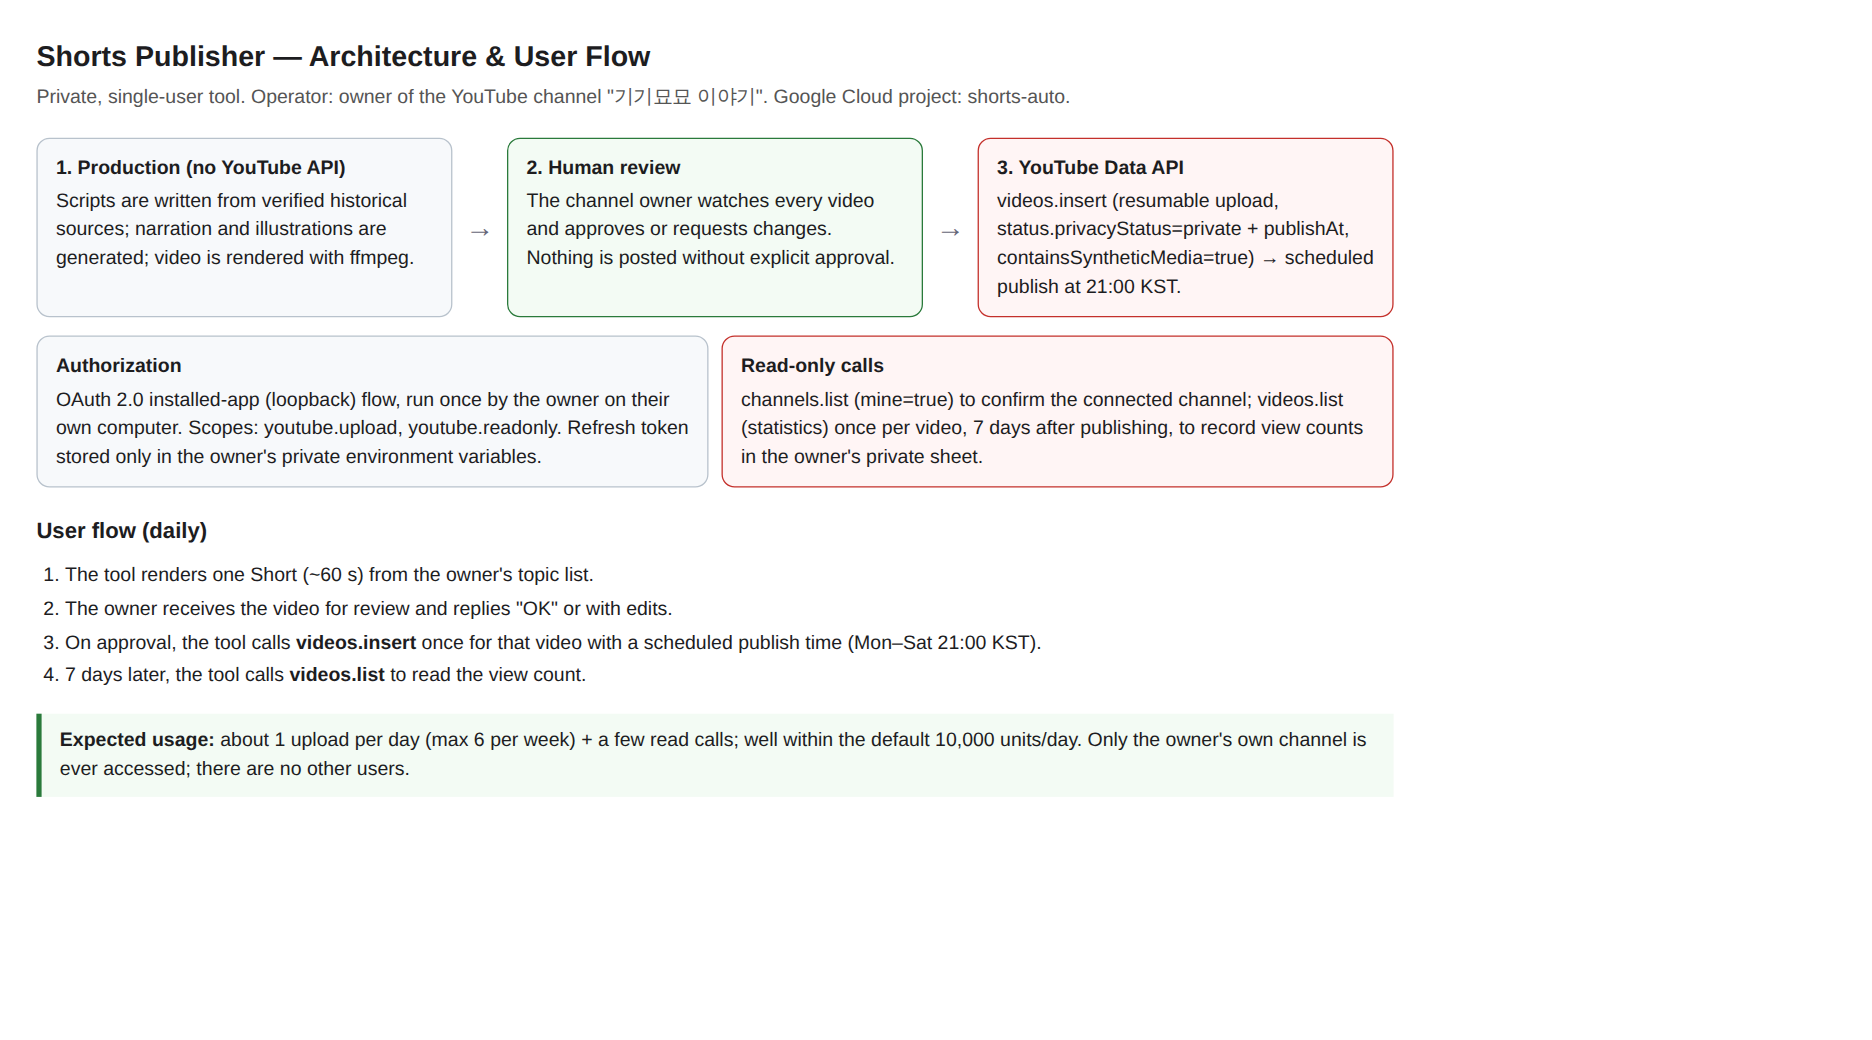
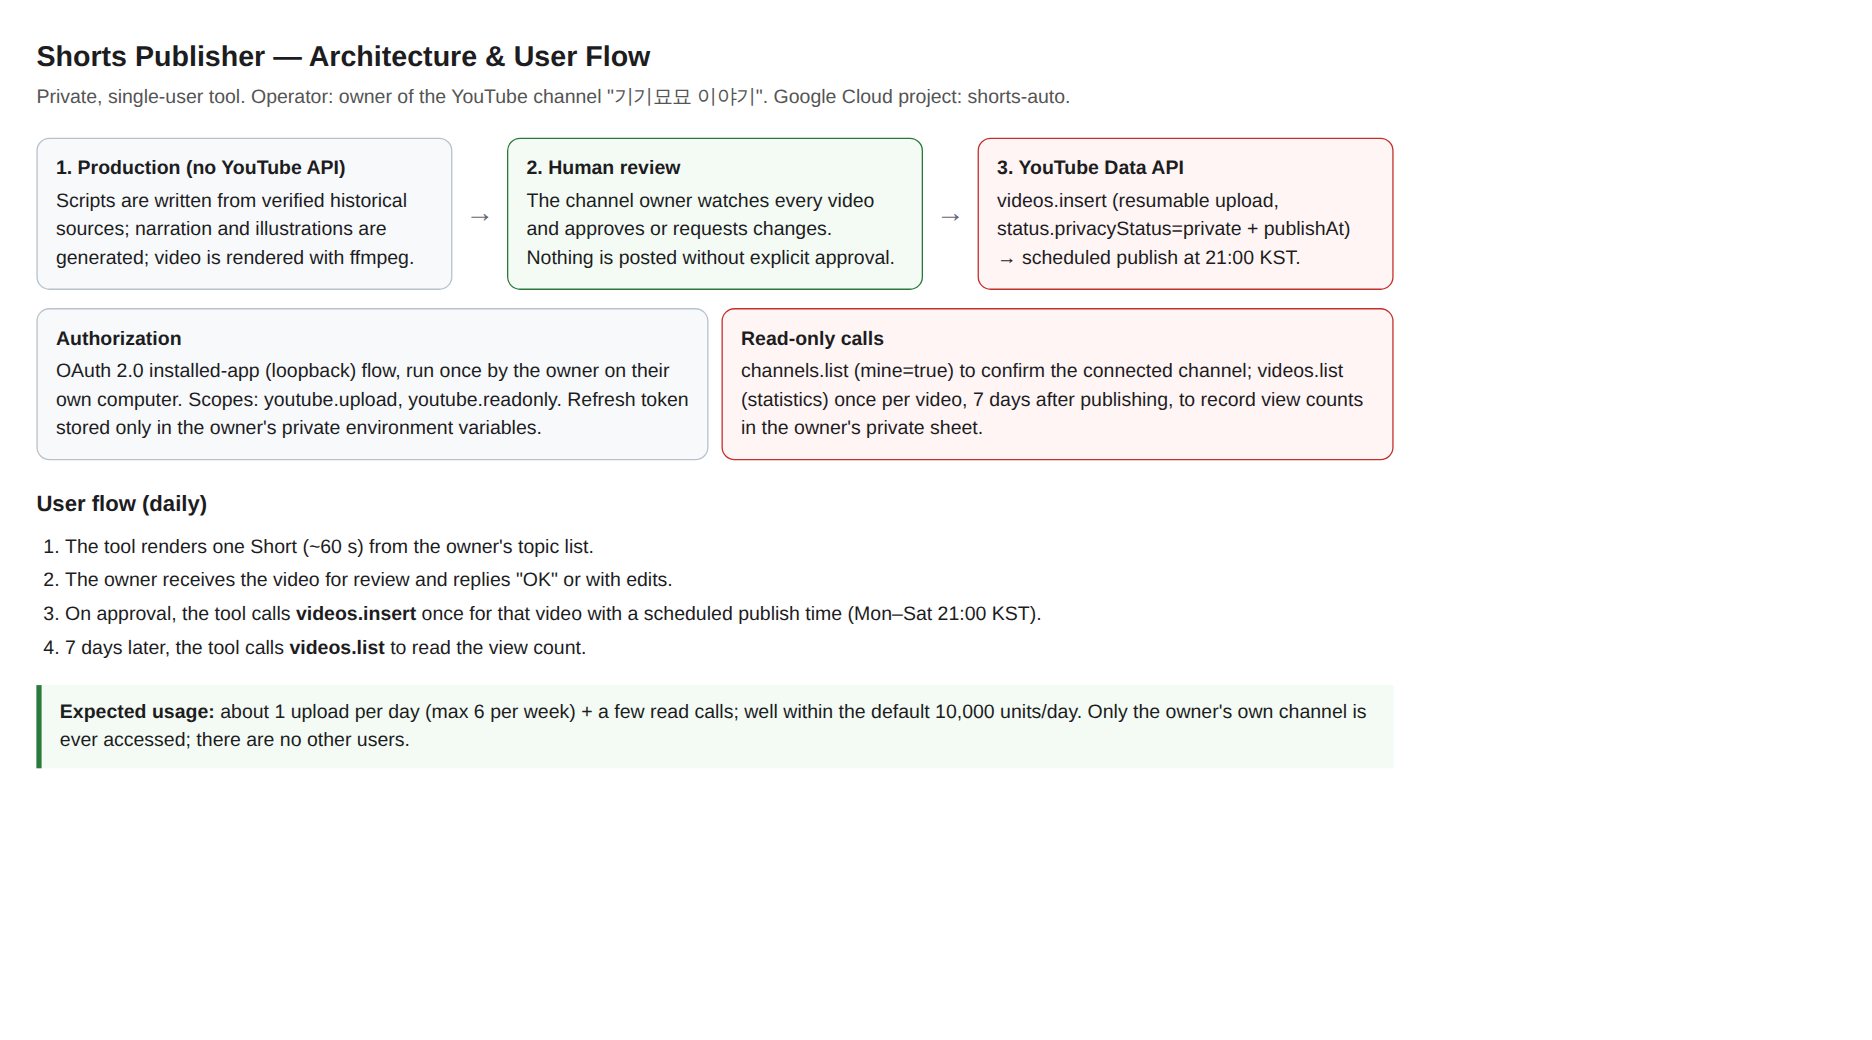
구조도: 합성 표시 문구 제거
Claude-Session: https://claude.ai/code/session_01MyYfy4oAmRiLhfZLpWKyvB

Changed region(s): [[0.0, 0.2769, 0.7436, 0.7692], [0.5267, 0.2154, 0.7436, 0.3077]]

diff --git a/shorts/architecture.html b/shorts/architecture.html
@@ -16,7 +16,7 @@ ol{margin:0;padding-left:22px}li{margin:4px 0}
  <div class="arrow">→</div>
  <div class="box human"><b>2. Human review</b>The channel owner watches every video and approves or requests changes. Nothing is posted without explicit approval.</div>
  <div class="arrow">→</div>
- <div class="box yt"><b>3. YouTube Data API</b>videos.insert (resumable upload, status.privacyStatus=private + publishAt, containsSyntheticMedia=true) → scheduled publish at 21:00 KST.</div>
+ <div class="box yt"><b>3. YouTube Data API</b>videos.insert (resumable upload, status.privacyStatus=private + publishAt) → scheduled publish at 21:00 KST.</div>
 </div>
 <div class="row">
  <div class="box"><b>Authorization</b>OAuth 2.0 installed-app (loopback) flow, run once by the owner on their own computer. Scopes: youtube.upload, youtube.readonly. Refresh token stored only in the owner's private environment variables.</div>
